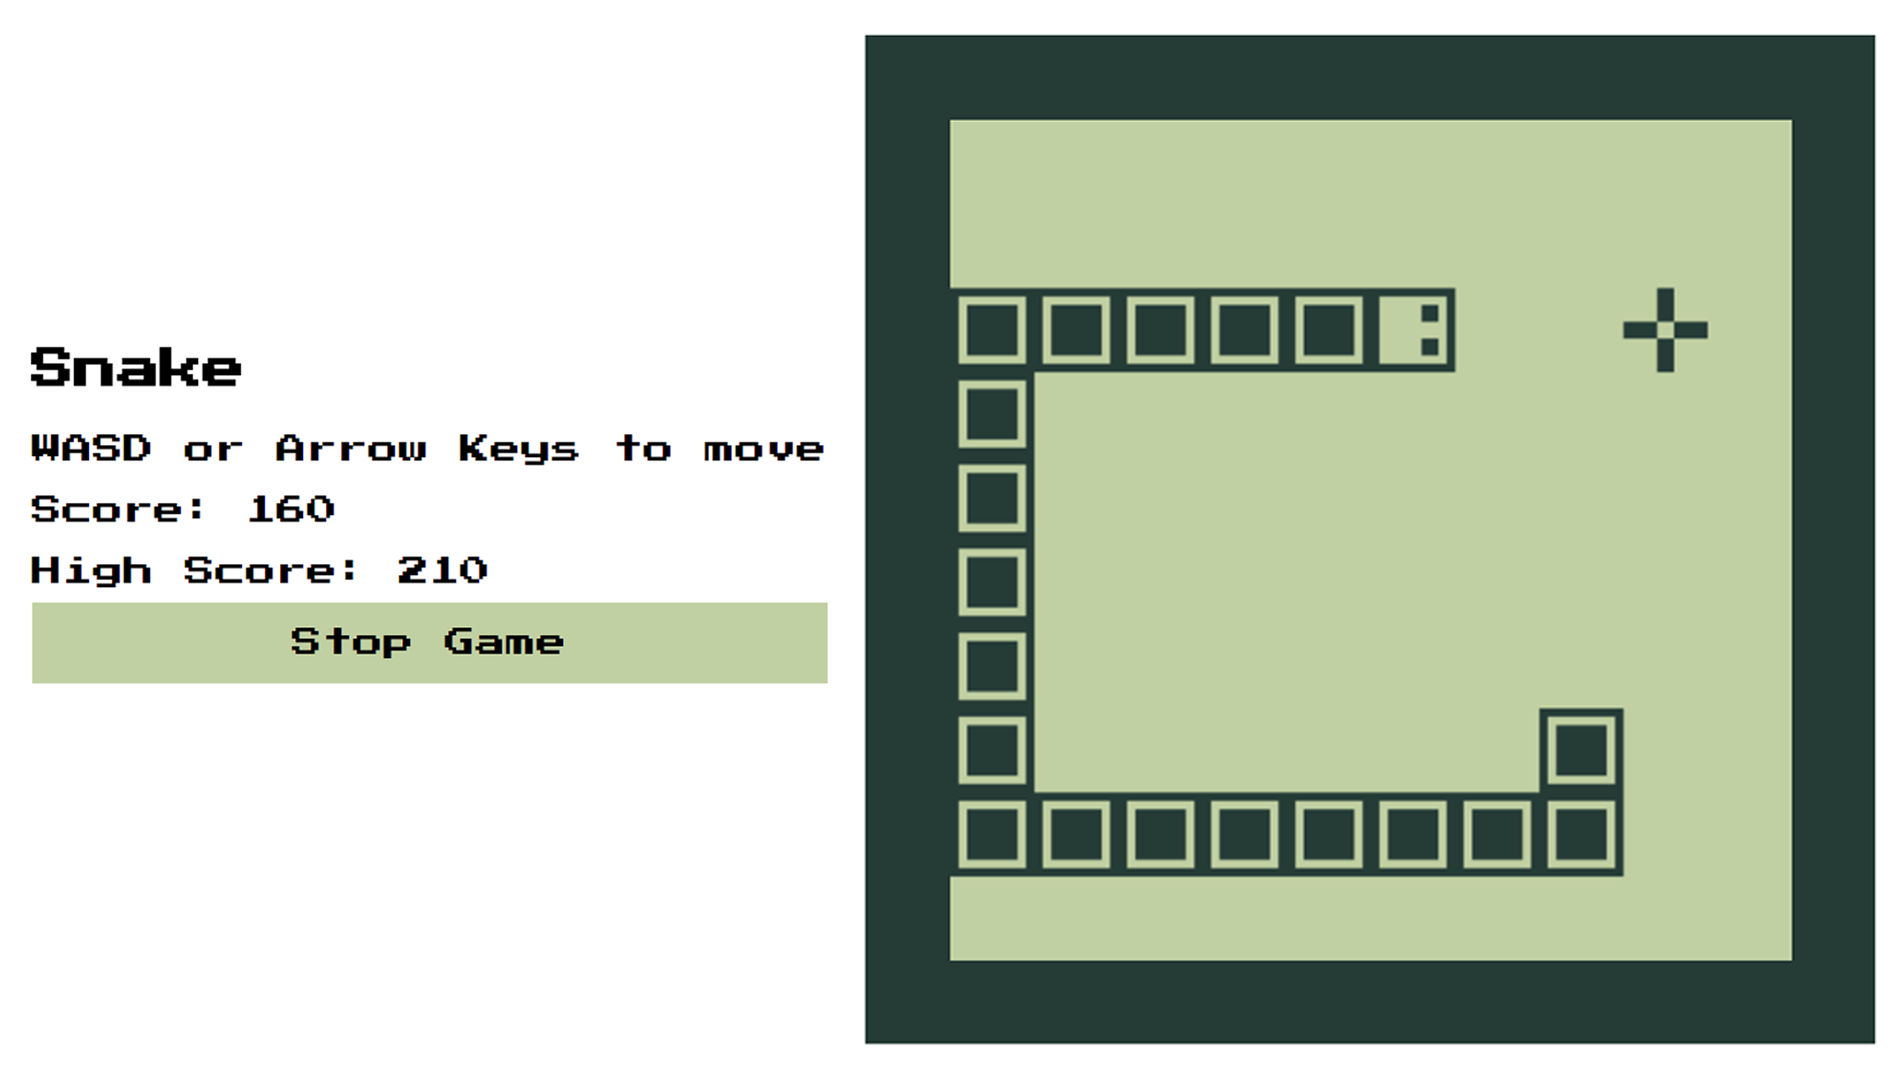
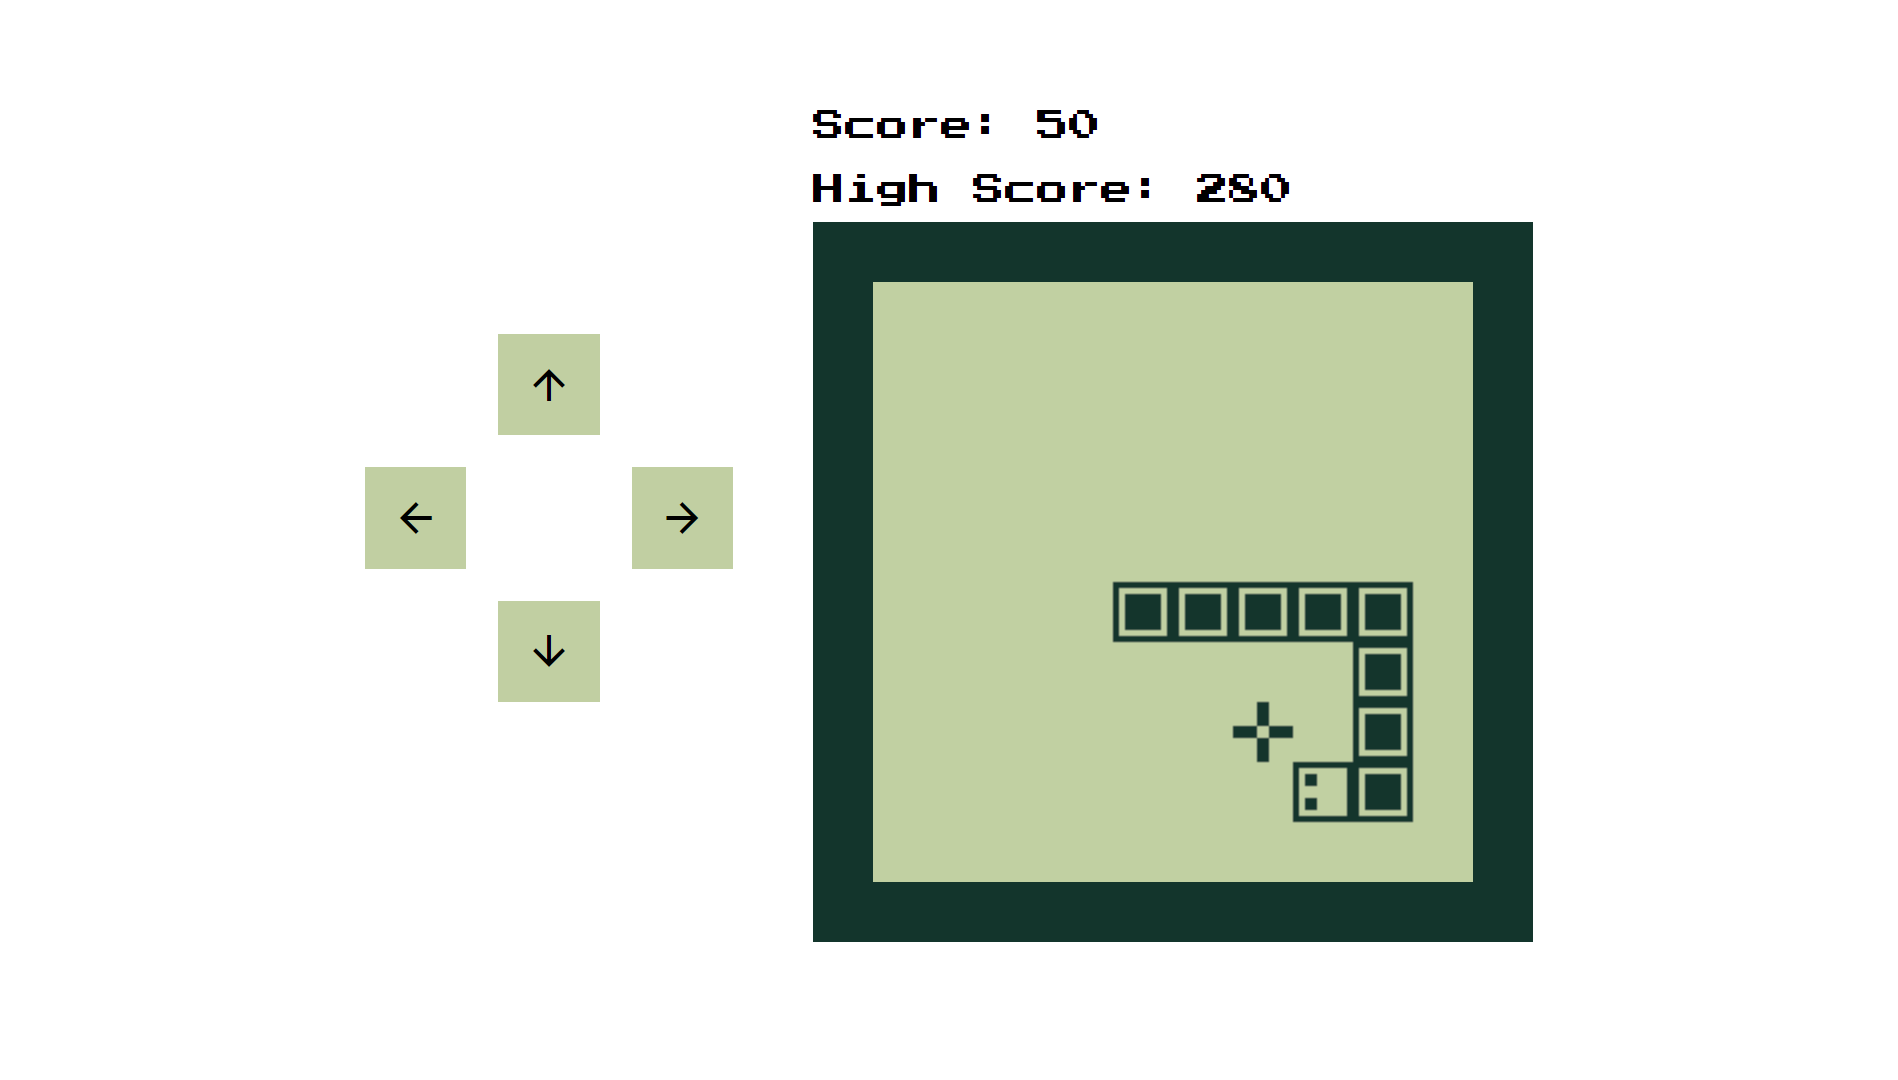
Add new snake link and image

diff --git a/src/index.html b/src/index.html
@@ -4,4 +4,4 @@ gtag('js', new Date());
 
 gtag('config', 'UA-80868144-1');</script></head><body><main><section id="content"><section class="container" id="title"><h1>Daniel Hearn</h1><h2 class="uni">Computer Science student at the University of portsmouth</h2><h2 class="job">Currently on my placement year with <a class="text_link" href="https://www.freshrelevance.com/">Fresh Relevance</a></h2></section><section class="container" id="about"><h3>I experiment with the web</h3><p>I experiment with code on <a class="text_link" href="https://codepen.io/danhearn/">Codepen</a>, the source code for all my projects can be found on <a class="text_link" href="https://github.com/DanielHearn">Github</a> as well as their designs on <a class="text_link" href="https://www.behance.net/Danielhearn">Behance</a> and <a class="text_link" href="https://dribbble.com/danhearn">Dribble</a>. </p><p>I'm proficient in HTML5 (Pug) and CSS3 (SCSS), working to improve my Javascript (ES6, ES7), using AngularJS and Vue frameworks to build web apps
 and using Experience Design, Photoshop, Gulp, and Git to enhance my workflow. </p><p class="content_text">I have experience with Django, Node, I can also code in Python
-and Java, and database with MYSQL.</p></section><section class="projects container"><h3 class="projects_title">Check out my projects</h3><p>Here is a selection of my best open-source, personal, and commercial projects.</p><section class="projects_grid"><section class="project"><div class="project_container"><a class="project_browser" id="manytwitch" href="http://danielhearn.co.uk/manytwitch"> <div class="browser_container"><div class="browser_nav"><div class="browser_dot--red"></div><div class="browser_dot"></div><div class="browser_dot"></div></div><img class="project_image" src="img/manytwitch.png"></div></a></div><div class="project_info"><h4 class="project_title">Manytwitch</h4><p class="project_desc"><span>Open Source - </span> Multiple twitch stream viewer made with Angular JS.</p><p><a class="text_link" href="http://danielhearn.co.uk/manytwitch">View Project</a></p></div></section><section class="project"><a class="project_browser" id="interiors" href="https://interiorsofaylesbury.com"> <div class="browser_container"><div class="browser_nav"><div class="browser_dot--red"></div><div class="browser_dot"></div><div class="browser_dot"></div></div><img class="project_image" src="img/interiors.png"></div></a><div class="project_info"><h4 class="project_title">Interiors of Aylesbury</h4><p class="project_desc"><span>Commercial Client - </span> Custom Wordpress theme developed for Interiors of Aylesbury.</p><p><a class="text_link" href="https://interiorsofaylesbury.com">View Project</a></p></div></section><section class="project"><a class="project_browser" id="css_loaders" href="http://danielhearn.co.uk/css-loaders"> <div class="browser_container"><div class="browser_nav"><div class="browser_dot--red"></div><div class="browser_dot"></div><div class="browser_dot"></div></div><img class="project_image" src="img/css_loaders.png"></div></a><div class="project_info"><h4 class="project_title">CSS Loaders</h4><p class="project_desc"><span>Open Source - </span> Collection of CSS loaders.</p><p><a class="text_link" href="http://danielhearn.co.uk/css-loaders">View Project  </a></p></div></section><section class="project"><a class="project_browser" id="korean" href="http://thekoreanhandbook.com/"> <div class="browser_container"><div class="browser_nav"><div class="browser_dot--red"></div><div class="browser_dot"></div><div class="browser_dot"></div></div><img class="project_image" src="img/korean.png"></div></a><div class="project_info"><h4 class="project_title">Korean Handbook</h4><p class="project_desc"><span>Personal Project - </span> Django Web app providing various tools and information teaching the Korean language.</p><p><a class="text_link" href="http://thekoreanhandbook.com/">View Project</a></p></div></section></section><section class="projects container"><h3 class="projects_title">My Side Projects</h3><p>Here are my best side projects and codepens.</p><section class="projects_grid"><section class="project"><div class="project_container"><a class="project_browser" id="worldgen" href="https://codepen.io/danhearn/full/mxQyXj"> <div class="browser_container"><div class="browser_nav"><div class="browser_dot--red"></div><div class="browser_dot"></div><div class="browser_dot"></div></div><img class="project_image" src="img/2dworldgen.png"></div></a></div><div class="project_info"><h4 class="project_title">Pixel World Generator</h4><p class="project_desc"><span>JavaScript - </span> Generates a 2D pixel world.</p><p><a class="text_link" href="https://codepen.io/danhearn/full/mxQyXj">View Project</a></p></div></section><section class="project"><a class="project_browser" id="snake" href="https://codepen.io/danhearn/full/JvZvmX"> <div class="browser_container"><div class="browser_nav"><div class="browser_dot--red"></div><div class="browser_dot"></div><div class="browser_dot"></div></div><img class="project_image" src="img/snake.png"></div></a><div class="project_info"><h4 class="project_title">Snake Game</h4><p class="project_desc"><span>JavaScript - </span> Recreation of snake.</p><p><a class="text_link" href="https://codepen.io/danhearn/full/JvZvmX">View Project</a></p></div></section></section></section><section class="container" id="contact"><h3>Feel free to contact me</h3><p>While im not currently open for freelance projects, feel free to <a class="text_link" href="mailto:dan@danielhearn.co.uk">email</a> about web development. My CV is also available on request.</p></section></section></section></main></body></html>
+and Java, and database with MYSQL.</p></section><section class="projects container"><h3 class="projects_title">Check out my projects</h3><p>Here is a selection of my best open-source, personal, and commercial projects.</p><section class="projects_grid"><section class="project"><div class="project_container"><a class="project_browser" id="manytwitch" href="http://danielhearn.co.uk/manytwitch"> <div class="browser_container"><div class="browser_nav"><div class="browser_dot--red"></div><div class="browser_dot"></div><div class="browser_dot"></div></div><img class="project_image" src="img/manytwitch.png"></div></a></div><div class="project_info"><h4 class="project_title">Manytwitch</h4><p class="project_desc"><span>Open Source - </span> Multiple twitch stream viewer made with Angular JS.</p><p><a class="text_link" href="http://danielhearn.co.uk/manytwitch">View Project</a></p></div></section><section class="project"><a class="project_browser" id="interiors" href="https://interiorsofaylesbury.com"> <div class="browser_container"><div class="browser_nav"><div class="browser_dot--red"></div><div class="browser_dot"></div><div class="browser_dot"></div></div><img class="project_image" src="img/interiors.png"></div></a><div class="project_info"><h4 class="project_title">Interiors of Aylesbury</h4><p class="project_desc"><span>Commercial Client - </span> Custom Wordpress theme developed for Interiors of Aylesbury.</p><p><a class="text_link" href="https://interiorsofaylesbury.com">View Project</a></p></div></section><section class="project"><a class="project_browser" id="css_loaders" href="http://danielhearn.co.uk/css-loaders"> <div class="browser_container"><div class="browser_nav"><div class="browser_dot--red"></div><div class="browser_dot"></div><div class="browser_dot"></div></div><img class="project_image" src="img/css_loaders.png"></div></a><div class="project_info"><h4 class="project_title">CSS Loaders</h4><p class="project_desc"><span>Open Source - </span> Collection of CSS loaders.</p><p><a class="text_link" href="http://danielhearn.co.uk/css-loaders">View Project  </a></p></div></section><section class="project"><a class="project_browser" id="korean" href="http://thekoreanhandbook.com/"> <div class="browser_container"><div class="browser_nav"><div class="browser_dot--red"></div><div class="browser_dot"></div><div class="browser_dot"></div></div><img class="project_image" src="img/korean.png"></div></a><div class="project_info"><h4 class="project_title">Korean Handbook</h4><p class="project_desc"><span>Personal Project - </span> Django Web app providing various tools and information teaching the Korean language.</p><p><a class="text_link" href="http://thekoreanhandbook.com/">View Project</a></p></div></section></section><section class="projects container"><h3 class="projects_title">My Side Projects</h3><p>Here are my best side projects and codepens.</p><section class="projects_grid"><section class="project"><div class="project_container"><a class="project_browser" id="worldgen" href="https://codepen.io/danhearn/full/mxQyXj"> <div class="browser_container"><div class="browser_nav"><div class="browser_dot--red"></div><div class="browser_dot"></div><div class="browser_dot"></div></div><img class="project_image" src="img/2dworldgen.png"></div></a></div><div class="project_info"><h4 class="project_title">Pixel World Generator</h4><p class="project_desc"><span>JavaScript - </span> Generates a 2D pixel world.</p><p><a class="text_link" href="https://codepen.io/danhearn/full/mxQyXj">View Project</a></p></div></section><section class="project"><a class="project_browser" id="snake" href="https://codepen.io/danhearn/full/LXWWrZ"> <div class="browser_container"><div class="browser_nav"><div class="browser_dot--red"></div><div class="browser_dot"></div><div class="browser_dot"></div></div><img class="project_image" src="img/snake.png"></div></a><div class="project_info"><h4 class="project_title">Snake Game</h4><p class="project_desc"><span>JavaScript - </span> Recreation of snake.</p><p><a class="text_link" href="https://codepen.io/danhearn/full/LXWWrZ">View Project</a></p></div></section></section></section><section class="container" id="contact"><h3>Feel free to contact me</h3><p>While im not currently open for freelance projects, feel free to <a class="text_link" href="mailto:dan@danielhearn.co.uk">email</a> about web development. My CV is also available on request.</p></section></section></section></main></body></html>
